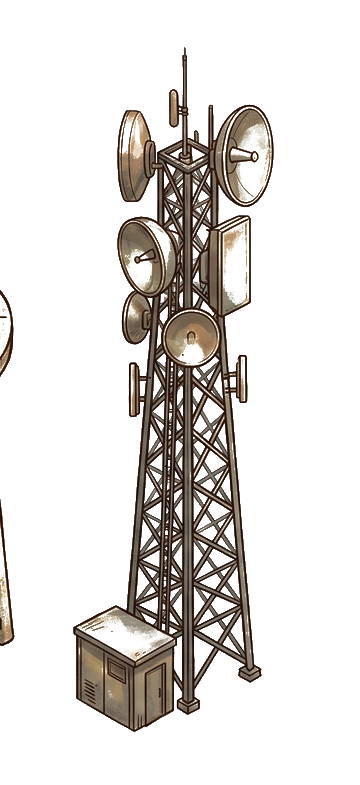
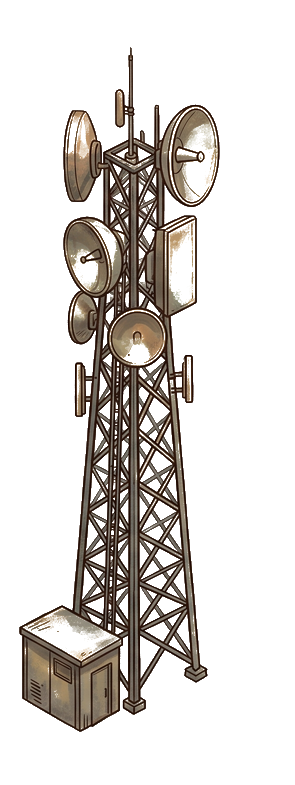
施工実績を実写39枚に＋ホーム/事業名の改行を全幅で枠内に修正
works実写ギャラリー(assets/photos 41枚)/ホーム6事業カードとbusinessの折り返しを全ブレークポイントで枠内に/index字間改善/スクロール慣性0.85/電気通信イラストのトリミング/favicon。バックアップ(*.orig.png)は除外。

Changed region(s): [[0.0, 0.0611, 0.7627, 0.9478], [0.0, 0.3669, 0.061, 0.4892]]

diff --git a/works.html b/works.html
@@ -4,9 +4,9 @@
 <meta charset="UTF-8" />
 <meta name="viewport" content="width=device-width, initial-scale=1.0" />
 <title>施工実績｜内村電機工務店</title>
-<meta name="description" content="出雲市新庁舎、島根県立中央病院、中国電力ネットワーク送電線工事ほか。内村電機工務店が島根で手がけてきた施工実績をご紹介します。" />
-<link rel="stylesheet" href="style.css?v=14" />
-<link rel="stylesheet" href="pages.css?v=14" />
+<meta name="description" content="出雲市新庁舎、島根県立中央病院、浜山体育館、各学校・図書館・福祉施設、送電・配電・通信・水道・空調まで。内村電機工務店が島根で手がけてきた施工実績をご紹介します。" />
+<link rel="stylesheet" href="style.css?v=16" />
+<link rel="stylesheet" href="pages.css?v=17" />
 <link rel="stylesheet" href="scroll.css?v=3" />
 <link rel="icon" href="favicon.svg" type="image/svg+xml" />
 </head>
@@ -49,51 +49,90 @@
         <div class="crumbs"><a href="index.html">HOME</a><span>/</span>施工実績</div>
         <p class="page-hero__label">Our Works</p>
         <h1 class="page-hero__title">島根の、大きな建物の灯は、<br />私たちが点けました<span class="dot">。</span></h1>
-        <p class="page-hero__lead">庁舎、病院、送電網。島根の人なら、きっと見たことのある場所。その灯の裏側に、内村電機の仕事があります。代表的な実績をご紹介します。</p>
+        <p class="page-hero__lead">庁舎、病院、学校、トンネル、送電網。島根の人なら、きっと見たことのある場所。その灯の裏側に、内村電機の仕事があります。代表的な実績をご紹介します。</p>
       </div>
     </section>
 
-    <section class="section reveal" style="background:var(--warm-white)">
+    <section class="section" style="background:var(--warm-white)">
       <div class="wave-top"><svg viewBox="0 0 1440 130" preserveAspectRatio="none"><path d="M0,42 C360,4 560,108 840,112 C1110,116 1260,48 1440,36 L1440,130 L0,130 Z" fill="#F7F3EC"/></svg></div>
       <p class="section__label">Project Archive</p>
       <h2 class="section__title">施工実績<span class="dot">。</span></h2>
-      <div class="work-filter">
-        <span class="is-on">すべて</span><span>公共施設</span><span>医療</span><span>送電・配電</span><span>水道・空調</span>
+
+      <!-- ① 公共施設・建築 -->
+      <div class="work-cat reveal">
+        <div class="work-cat__h"><span class="n">01</span>公共施設・建築（電気設備）</div>
+        <div class="works-grid--page">
+          <div class="work-card"><div class="work-card__media ph" style="background-image:url('assets/photos/p11.jpg')"><span class="tag">公共・電気設備</span></div><div class="work-card__body"><div class="work-card__name">出雲市新庁舎 新築工事</div><div class="work-card__meta">電気設備工事 ／ 国土交通大臣顕彰</div></div></div>
+          <div class="work-card"><div class="work-card__media ph" style="background-image:url('assets/photos/p15.jpg')"><span class="tag">医療・電気設備</span></div><div class="work-card__body"><div class="work-card__name">島根県立中央病院 新築工事</div><div class="work-card__meta">電気設備工事 ／ 医療インフラ</div></div></div>
+          <div class="work-card"><div class="work-card__media ph" style="background-image:url('assets/photos/p31.jpg')"><span class="tag">公共・電気設備</span></div><div class="work-card__body"><div class="work-card__name">県立浜山体育館（カミアリーナ）新築工事</div><div class="work-card__meta">電気設備工事</div></div></div>
+          <div class="work-card"><div class="work-card__media ph" style="background-image:url('assets/photos/p28.jpg')"><span class="tag">公共・電気設備</span></div><div class="work-card__body"><div class="work-card__name">浜田市立中央図書館 新築工事</div><div class="work-card__meta">電気設備工事</div></div></div>
+          <div class="work-card"><div class="work-card__media ph" style="background-image:url('assets/photos/p10.jpg')"><span class="tag">教育・電気設備</span></div><div class="work-card__body"><div class="work-card__name">出雲工業高校（管理特別教室棟）新築工事</div><div class="work-card__meta">電気設備工事</div></div></div>
+          <div class="work-card"><div class="work-card__media ph" style="background-image:url('assets/photos/p12.jpg')"><span class="tag">教育・電気設備</span></div><div class="work-card__body"><div class="work-card__name">出雲高校（管理特別教室棟）新築工事</div><div class="work-card__meta">電気設備工事</div></div></div>
+          <div class="work-card"><div class="work-card__media ph" style="background-image:url('assets/photos/p32.jpg')"><span class="tag">教育・電気設備</span></div><div class="work-card__body"><div class="work-card__name">西野小学校 屋内運動場改築工事</div><div class="work-card__meta">電気設備工事</div></div></div>
+          <div class="work-card"><div class="work-card__media ph" style="background-image:url('assets/photos/p14.png')"><span class="tag">公共・電気設備</span></div><div class="work-card__body"><div class="work-card__name">山陰浜田港 公設市場整備工事</div><div class="work-card__meta">電気設備工事</div></div></div>
+          <div class="work-card"><div class="work-card__media ph" style="background-image:url('assets/photos/p29.jpg')"><span class="tag">福祉・電気設備</span></div><div class="work-card__body"><div class="work-card__name">特別養護老人ホーム偕生園 改築電気設備工事</div><div class="work-card__meta">電気設備工事</div></div></div>
+          <div class="work-card"><div class="work-card__media ph" style="background-image:url('assets/photos/p30.jpg')"><span class="tag">福祉・電気設備</span></div><div class="work-card__body"><div class="work-card__name">特別養護老人ホーム天神 新築工事</div><div class="work-card__meta">電気設備工事</div></div></div>
+        </div>
       </div>
-      <div class="works-grid--page">
 
-        <a class="work-card">
-          <div class="work-card__media m-pub"><span class="yr">2018</span><span class="tag">公共・電気設備</span></div>
-          <div class="work-card__body"><div class="work-card__name">出雲市新庁舎</div><div class="work-card__meta">電気設備工事 ／ 国土交通大臣顕彰</div></div>
-        </a>
-
-        <a class="work-card">
-          <div class="work-card__media m-med"><span class="yr">継続中</span><span class="tag">医療・電気空調</span></div>
-          <div class="work-card__body"><div class="work-card__name">島根県立中央病院 ほか</div><div class="work-card__meta">電気・空調設備 ／ 医療インフラ</div></div>
-        </a>
-
-        <a class="work-card">
-          <div class="work-card__media m-pow"><span class="yr">毎年</span><span class="tag">送電・配電</span></div>
-          <div class="work-card__body"><div class="work-card__name">中国電力ネットワーク 送電線工事</div><div class="work-card__meta">送電・配電設備 ／ 感謝状受領</div></div>
-        </a>
-
-        <a class="work-card">
-          <div class="work-card__media m-pub"><span class="yr">公共</span><span class="tag">公共・電気設備</span></div>
-          <div class="work-card__body"><div class="work-card__name">島根県内 公立学校・庁舎</div><div class="work-card__meta">電気・通信設備 ／ 複数年実績</div></div>
-        </a>
-
-        <a class="work-card">
-          <div class="work-card__media m-pow"><span class="yr">災害対応</span><span class="tag">送電・配電</span></div>
-          <div class="work-card__body"><div class="work-card__name">台風・豪雪 停電復旧工事</div><div class="work-card__meta">配電線復旧 ／ 緊急対応</div></div>
-        </a>
-
-        <a class="work-card">
-          <div class="work-card__media m-med"><span class="yr">公共</span><span class="tag">水道・空調</span></div>
-          <div class="work-card__body"><div class="work-card__name">島根県内 浄水場・上下水道施設</div><div class="work-card__meta">ポンプ制御・電気設備 ／ ライフライン</div></div>
-        </a>
-
+      <!-- ② 電気通信 -->
+      <div class="work-cat reveal">
+        <div class="work-cat__h"><span class="n">02</span>電気通信工事</div>
+        <div class="works-grid--page">
+          <div class="work-card"><div class="work-card__media ph" style="background-image:url('assets/photos/p16.jpg')"><span class="tag">電気通信</span></div><div class="work-card__body"><div class="work-card__name">島根県立中央病院 病棟情報管理システム更新工事</div><div class="work-card__meta">電気通信工事 ／ 3階救急病棟センター</div></div></div>
+          <div class="work-card"><div class="work-card__media ph" style="background-image:url('assets/photos/p22.jpg')"><span class="tag">電気通信</span></div><div class="work-card__body"><div class="work-card__name">松江連絡線 OPGW張替工事</div><div class="work-card__meta">電気通信工事</div></div></div>
+          <div class="work-card"><div class="work-card__media ph" style="background-image:url('assets/photos/p41.jpg')"><span class="tag">電気通信</span></div><div class="work-card__body"><div class="work-card__name">龍宮トンネル 警報表示板</div><div class="work-card__meta">電気通信工事</div></div></div>
+          <div class="work-card"><div class="work-card__media ph" style="background-image:url('assets/photos/p04.jpg')"><span class="tag">電気通信</span></div><div class="work-card__body"><div class="work-card__name">仁摩邑南線外 道路情報板</div><div class="work-card__meta">電気通信工事</div></div></div>
+          <div class="work-card"><div class="work-card__media ph" style="background-image:url('assets/photos/p03.jpg')"><span class="tag">電気通信</span></div><div class="work-card__body"><div class="work-card__name">三瓶ダム 気象観測装置</div><div class="work-card__meta">電気通信工事</div></div></div>
+          <div class="work-card"><div class="work-card__media ph" style="background-image:url('assets/photos/p20.jpg')"><span class="tag">電気通信</span></div><div class="work-card__body"><div class="work-card__name">松江市乃木福富 交通情報板工事</div><div class="work-card__meta">電気通信工事</div></div></div>
+          <div class="work-card"><div class="work-card__media ph" style="background-image:url('assets/photos/p02.jpg')"><span class="tag">電気通信</span></div><div class="work-card__body"><div class="work-card__name">CCTV設備工事</div><div class="work-card__meta">電気通信工事</div></div></div>
+          <div class="work-card"><div class="work-card__media ph" style="background-image:url('assets/photos/p27.jpg')"><span class="tag">電気通信</span></div><div class="work-card__body"><div class="work-card__name">浜田川総合開発事業</div><div class="work-card__meta">電気通信工事</div></div></div>
+        </div>
       </div>
-      <p class="body-copy" style="margin-top:36px">※ 掲載はごく一部です。守秘義務によりお見せできない現場も含め、島根全域で年間多数の工事を手がけています。詳しい実績はお気軽にお問い合わせください。</p>
+
+      <!-- ③ 照明・道路・防災 -->
+      <div class="work-cat reveal">
+        <div class="work-cat__h"><span class="n">03</span>照明・道路・防災</div>
+        <div class="works-grid--page">
+          <div class="work-card"><div class="work-card__media ph" style="background-image:url('assets/photos/p17.jpg')"><span class="tag">照明設備</span></div><div class="work-card__body"><div class="work-card__name">真田グラウンド 照明設備工事</div><div class="work-card__meta">照明設備工事 ／ 平成29年度</div></div></div>
+          <div class="work-card"><div class="work-card__media ph" style="background-image:url('assets/photos/p39.jpg')"><span class="tag">照明設備</span></div><div class="work-card__body"><div class="work-card__name">頓原町民野球場 照明灯改修工事</div><div class="work-card__meta">照明設備工事</div></div></div>
+          <div class="work-card"><div class="work-card__media ph" style="background-image:url('assets/photos/p40.jpg')"><span class="tag">照明設備</span></div><div class="work-card__body"><div class="work-card__name">龍宮トンネル 照明工事</div><div class="work-card__meta">照明設備工事</div></div></div>
+          <div class="work-card"><div class="work-card__media ph" style="background-image:url('assets/photos/p26.jpg')"><span class="tag">電気設備</span></div><div class="work-card__body"><div class="work-card__name">浜山公園野球場 スコアボード表示システム改修工事</div><div class="work-card__meta">電気設備工事</div></div></div>
+          <div class="work-card"><div class="work-card__media ph" style="background-image:url('assets/photos/p13.jpg')"><span class="tag">防災・道路</span></div><div class="work-card__body"><div class="work-card__name">国道191号（伏谷トンネル）防災安全交付金工事</div><div class="work-card__meta">付属物修繕工事</div></div></div>
+          <div class="work-card"><div class="work-card__media ph" style="background-image:url('assets/photos/p25.jpg')"><span class="tag">電気設備</span></div><div class="work-card__body"><div class="work-card__name">津和野町 電気自動車急速充電器設置工事</div><div class="work-card__meta">電気設備工事</div></div></div>
+        </div>
+      </div>
+
+      <!-- ④ 送電・配電 -->
+      <div class="work-cat reveal">
+        <div class="work-cat__h"><span class="n">04</span>送電線・配電線</div>
+        <div class="works-grid--page">
+          <div class="work-card"><div class="work-card__media ph" style="background-image:url('assets/photos/p21.jpg')"><span class="tag">送電線</span></div><div class="work-card__body"><div class="work-card__name">松江直江線 鉄塔建替工事</div><div class="work-card__meta">送電線工事</div></div></div>
+          <div class="work-card"><div class="work-card__media ph" style="background-image:url('assets/photos/p18.jpg')"><span class="tag">送電線</span></div><div class="work-card__body"><div class="work-card__name">日原線 鉄塔建替工事</div><div class="work-card__meta">送電線工事</div></div></div>
+          <div class="work-card"><div class="work-card__media ph" style="background-image:url('assets/photos/p33.jpg')"><span class="tag">配電線</span></div><div class="work-card__body"><div class="work-card__name">配電線工事 ①</div><div class="work-card__meta">配電線工事</div></div></div>
+          <div class="work-card"><div class="work-card__media ph" style="background-image:url('assets/photos/p34.jpg')"><span class="tag">配電線</span></div><div class="work-card__body"><div class="work-card__name">配電線工事 ②</div><div class="work-card__meta">配電線工事</div></div></div>
+          <div class="work-card"><div class="work-card__media ph" style="background-image:url('assets/photos/p35.jpg')"><span class="tag">配電線</span></div><div class="work-card__body"><div class="work-card__name">配電線工事 ③</div><div class="work-card__meta">配電線工事</div></div></div>
+          <div class="work-card"><div class="work-card__media ph" style="background-image:url('assets/photos/p36.jpg')"><span class="tag">配電線</span></div><div class="work-card__body"><div class="work-card__name">配電線工事 ④</div><div class="work-card__meta">配電線工事</div></div></div>
+          <div class="work-card"><div class="work-card__media ph" style="background-image:url('assets/photos/p37.jpg')"><span class="tag">配電線</span></div><div class="work-card__body"><div class="work-card__name">配電線工事 ⑤</div><div class="work-card__meta">配電線工事</div></div></div>
+          <div class="work-card"><div class="work-card__media ph" style="background-image:url('assets/photos/p38.jpg')"><span class="tag">配電線</span></div><div class="work-card__body"><div class="work-card__name">配電線工事 ⑥</div><div class="work-card__meta">配電線工事</div></div></div>
+        </div>
+      </div>
+
+      <!-- ⑤ 水道・空調 -->
+      <div class="work-cat reveal">
+        <div class="work-cat__h"><span class="n">05</span>水道施設・給排水空調</div>
+        <div class="works-grid--page">
+          <div class="work-card"><div class="work-card__media ph" style="background-image:url('assets/photos/p24.jpg')"><span class="tag">水道施設</span></div><div class="work-card__body"><div class="work-card__name">水道施設工事 ①</div><div class="work-card__meta">水道施設工事</div></div></div>
+          <div class="work-card"><div class="work-card__media ph" style="background-image:url('assets/photos/p23.jpg')"><span class="tag">水道施設</span></div><div class="work-card__body"><div class="work-card__name">水道施設工事 ②</div><div class="work-card__meta">水道施設工事</div></div></div>
+          <div class="work-card"><div class="work-card__media ph" style="background-image:url('assets/photos/p05.jpg')"><span class="tag">水道・電気</span></div><div class="work-card__body"><div class="work-card__name">今津浄水場 自家発電設備取替工事</div><div class="work-card__meta">電気設備工事</div></div></div>
+          <div class="work-card"><div class="work-card__media ph" style="background-image:url('assets/photos/p09.png')"><span class="tag">空調設備</span></div><div class="work-card__body"><div class="work-card__name">出雲医療看護専門学校 空調設備工事 ①</div><div class="work-card__meta">給排水・空調設備工事</div></div></div>
+          <div class="work-card"><div class="work-card__media ph" style="background-image:url('assets/photos/p06.png')"><span class="tag">空調設備</span></div><div class="work-card__body"><div class="work-card__name">出雲医療看護専門学校 空調設備工事 ②</div><div class="work-card__meta">給排水・空調設備工事</div></div></div>
+          <div class="work-card"><div class="work-card__media ph" style="background-image:url('assets/photos/p07.png')"><span class="tag">空調設備</span></div><div class="work-card__body"><div class="work-card__name">出雲医療看護専門学校 空調設備工事 ③</div><div class="work-card__meta">給排水・空調設備工事</div></div></div>
+          <div class="work-card"><div class="work-card__media ph" style="background-image:url('assets/photos/p08.png')"><span class="tag">空調設備</span></div><div class="work-card__body"><div class="work-card__name">出雲医療看護専門学校 空調設備工事 ④</div><div class="work-card__meta">給排水・空調設備工事</div></div></div>
+        </div>
+      </div>
+
+      <p class="body-copy" style="margin-top:48px">※ 掲載は実績の一部です。島根全域で、年間多数の工事を手がけています。詳しい実績はお気軽にお問い合わせください。</p>
     </section>
 
     <section class="cta-foot reveal">

diff --git a/style.css b/style.css
@@ -31,6 +31,7 @@ body {
   font-family: "Noto Sans JP", system-ui, sans-serif;
   font-weight: 400;
   font-feature-settings: "palt" 1;
+  letter-spacing: 0.03em;
   font-size: 17px;
   line-height: 1.85;
   -webkit-font-smoothing: antialiased;
@@ -92,7 +93,7 @@ a { color: inherit; text-decoration: none; }
 .section__label::before { content: ""; width: 28px; height: 2px; background: var(--red); }
 .section__title {
   font-weight: 900; font-size: clamp(28px, 4.2vw, 52px); line-height: 1.3;
-  letter-spacing: -0.01em; color: var(--ink); margin-bottom: 24px;
+  letter-spacing: -0.03em; color: var(--ink); margin-bottom: 24px;
 }
 
 /* ============ S1 ファーストビュー：アイソメ島根の街 ============ */
@@ -105,7 +106,7 @@ a { color: inherit; text-decoration: none; }
 .fv__copy { position: relative; z-index: 3; padding: 0 clamp(24px, 6vw, 96px); max-width: 760px; }
 .fv__title {
   font-weight: 900; font-size: clamp(40px, 6.6vw, 92px); line-height: 1.18;
-  letter-spacing: -0.01em; color: var(--ink); margin-bottom: 28px;
+  letter-spacing: -0.03em; color: var(--ink); margin-bottom: 28px;
   text-shadow: 0 2px 30px rgba(247,243,236,0.8);
 }
 .fv__lead { font-size: clamp(15px, 1.5vw, 18px); color: var(--ink-mute); line-height: 2; max-width: 28em; margin-bottom: 40px; }
@@ -130,16 +131,16 @@ a { color: inherit; text-decoration: none; }
 }
 .biz-card:hover { transform: translateY(-4px); box-shadow: 0 16px 40px rgba(42,39,36,0.08); border-color: var(--red); }
 .biz-card { overflow: hidden; }
-.biz-card__img { position: absolute; right: -6px; bottom: -8px; width: 46%; max-width: 138px; opacity: 0.94; pointer-events: none; transition: transform .45s var(--ease); filter: drop-shadow(0 8px 14px rgba(42,39,36,0.12)); }
+.biz-card__img { position: absolute; right: -6px; bottom: -8px; width: 38%; max-width: 116px; opacity: 0.94; pointer-events: none; transition: transform .45s var(--ease); filter: drop-shadow(0 8px 14px rgba(42,39,36,0.12)); }
 .biz-card:hover .biz-card__img { transform: scale(1.07) translateY(-3px); }
 .biz-card__no, .biz-card__name, .biz-card__desc { position: relative; z-index: 3; }
-.biz-card:not(.is-hero) .biz-card__name { max-width: 56%; }
+.biz-card:not(.is-hero) .biz-card__name { max-width: 68%; }
 .biz-card.is-hero { grid-column: span 2; grid-row: span 2; min-height: 418px; background: linear-gradient(160deg, #FBF8F2, #F2E9DA); }
 .biz-card__img--hero { width: 38%; max-width: 280px; right: 18px; bottom: 14px; opacity: 1; }
 .biz-card__worker { position: absolute; right: 30%; bottom: 14px; width: 15%; max-width: 104px; pointer-events: none; z-index: 2; filter: drop-shadow(0 6px 10px rgba(42,39,36,0.18)); }
 .biz-card.is-hero .biz-card__desc { max-width: 52%; }
 .biz-card__no { font-family: "Roboto Mono", monospace; font-size: 13px; color: var(--red); margin-bottom: 12px; }
-.biz-card__name { font-weight: 900; font-size: clamp(20px, 2vw, 28px); color: var(--ink); }
+.biz-card__name { font-weight: 900; font-size: clamp(17px, 1.7vw, 24px); color: var(--ink); line-height: 1.4; word-break: keep-all; line-break: strict; }
 .biz-card.is-hero .biz-card__name { font-size: clamp(28px, 3.4vw, 44px); }
 .biz-card__desc { font-size: 14px; color: var(--ink-mute); margin-top: 10px; }
 

diff --git a/pages.css b/pages.css
@@ -80,7 +80,7 @@
 .biz-row__media.is-dark { background: linear-gradient(155deg, #222A38, #161C28); }
 .biz-row__media img { width: 56%; filter: drop-shadow(0 14px 24px rgba(42,39,36,0.18)); }
 .biz-row__no { font-family: "Roboto Mono", monospace; font-size: 14px; color: var(--red); margin-bottom: 14px; }
-.biz-row__name { font-weight: 900; font-size: clamp(24px, 3vw, 38px); color: var(--ink); line-height: 1.3; margin-bottom: 8px; }
+.biz-row__name { font-weight: 900; font-size: clamp(21px, 2.4vw, 34px); color: var(--ink); line-height: 1.35; margin-bottom: 8px; word-break: keep-all; line-break: strict; overflow-wrap: normal; }
 .biz-row__en { font-family: "Outfit", sans-serif; font-size: 12px; letter-spacing: 0.2em; color: var(--ink-mute); text-transform: uppercase; margin-bottom: 18px; }
 .biz-row__desc { font-size: 15.5px; color: var(--ink-mute); line-height: 2.05; max-width: 30em; }
 .biz-row__tags { display: flex; flex-wrap: wrap; gap: 8px; margin-top: 20px; }
@@ -95,6 +95,14 @@
 .works-grid--page .work-card__media.m-pub { background: linear-gradient(135deg, var(--sky), #b9d4e6); }
 .works-grid--page .work-card__media.m-med { background: linear-gradient(135deg, #8FB89E, #b9d6c4); }
 .works-grid--page .work-card__media.m-pow { background: linear-gradient(135deg, var(--lamp-amber), #f0c178); }
+/* 実写対応（会社写真） */
+.work-card__media.ph { background-size: cover; background-position: center; background-repeat: no-repeat; }
+.work-card__media.ph::after { content:""; position:absolute; inset:0; background:linear-gradient(180deg, rgba(20,16,12,0) 55%, rgba(20,16,12,0.5)); }
+.work-card__media.ph .tag { position:relative; z-index:2; background: rgba(20,16,12,0.62); color:#fff; }
+.work-cat { margin-top:64px; }
+.work-cat:first-of-type { margin-top:40px; }
+.work-cat__h { font-weight:900; font-size:clamp(18px,2vw,24px); color:var(--ink); margin-bottom:6px; display:flex; align-items:baseline; gap:12px; }
+.work-cat__h .n { font-family:"Roboto Mono",monospace; font-size:13px; color:var(--red); }
 .works-grid--page .work-card { transition: transform .4s var(--ease), box-shadow .4s; }
 .works-grid--page .work-card:hover { transform: translateY(-5px); box-shadow: 0 18px 44px rgba(42,39,36,0.1); }
 .work-card__media { position: relative; }

diff --git a/business.html b/business.html
@@ -5,8 +5,8 @@
 <meta name="viewport" content="width=device-width, initial-scale=1.0" />
 <title>事業内容｜内村電機工務店</title>
 <meta name="description" content="送電線・電気・配電線・電気通信・水道施設・給排水空調。島根の暮らしを支える内村電機工務店の6つの事業をご紹介します。" />
-<link rel="stylesheet" href="style.css?v=14" />
-<link rel="stylesheet" href="pages.css?v=14" />
+<link rel="stylesheet" href="style.css?v=16" />
+<link rel="stylesheet" href="pages.css?v=17" />
 <link rel="stylesheet" href="scroll.css?v=3" />
 <link rel="icon" href="favicon.svg" type="image/svg+xml" />
 </head>

diff --git a/about.html b/about.html
@@ -5,7 +5,7 @@
 <meta name="viewport" content="width=device-width, initial-scale=1.0" />
 <title>私たちについて｜内村電機工務店</title>
 <meta name="description" content="内村電機工務店は1934年から島根全域で、電気を通じて明るいまちづくりを支えてきました。九十二年の歴史と、128名の人。私たちの理念・沿革・代表メッセージ・会社概要。" />
-<link rel="stylesheet" href="style.css?v=14" />
+<link rel="stylesheet" href="style.css?v=16" />
 <link rel="stylesheet" href="pages.css?v=14" />
 <link rel="stylesheet" href="scroll.css?v=3" />
 <link rel="icon" href="favicon.svg" type="image/svg+xml" />

diff --git a/contact.html b/contact.html
@@ -5,7 +5,7 @@
 <meta name="viewport" content="width=device-width, initial-scale=1.0" />
 <title>お問い合わせ｜内村電機工務店</title>
 <meta name="description" content="内村電機工務店へのお問い合わせ。工事のご相談・採用のご応募はこちらから。お電話 0853-63-3456、またはフォームよりお気軽にご連絡ください。" />
-<link rel="stylesheet" href="style.css?v=14" />
+<link rel="stylesheet" href="style.css?v=16" />
 <link rel="stylesheet" href="pages.css?v=14" />
 <link rel="stylesheet" href="scroll.css?v=3" />
 <link rel="icon" href="favicon.svg" type="image/svg+xml" />

diff --git a/index.html b/index.html
@@ -5,7 +5,7 @@
 <meta name="viewport" content="width=device-width, initial-scale=1.0" />
 <title>内村電機工務店｜島根の街に、灯をともす。</title>
 <meta name="description" content="内村電機工務店は1934年から島根全域で、電気・送電・配電・通信・水道・空調の工事を通じて暮らしの裏側を支えてきました。電気を通じて、明るいまちづくりを。" />
-<link rel="stylesheet" href="style.css?v=12" />
+<link rel="stylesheet" href="style.css?v=16" />
 <link rel="stylesheet" href="scroll.css?v=3" />
 <link rel="icon" href="favicon.svg" type="image/svg+xml" />
 </head>

diff --git a/network.html b/network.html
@@ -5,7 +5,7 @@
 <meta name="viewport" content="width=device-width, initial-scale=1.0" />
 <title>拠点ネットワーク｜内村電機工務店</title>
 <meta name="description" content="本社（出雲）と島根県内6営業所。県東の安来から県西の益田まで。島根のどこで灯が落ちても駆けつけられる距離に、内村電機工務店はいます。" />
-<link rel="stylesheet" href="style.css?v=14" />
+<link rel="stylesheet" href="style.css?v=16" />
 <link rel="stylesheet" href="pages.css?v=14" />
 <link rel="stylesheet" href="scroll.css?v=3" />
 <link rel="icon" href="favicon.svg" type="image/svg+xml" />

diff --git a/quality.html b/quality.html
@@ -5,7 +5,7 @@
 <meta name="viewport" content="width=device-width, initial-scale=1.0" />
 <title>品質・ISO｜内村電機工務店</title>
 <meta name="description" content="ISO9001認証取得。品質・安全・環境・人材育成。内村電機工務店が灯を絶やさないために、仕組みで守っている約束をご紹介します。" />
-<link rel="stylesheet" href="style.css?v=14" />
+<link rel="stylesheet" href="style.css?v=16" />
 <link rel="stylesheet" href="pages.css?v=14" />
 <link rel="stylesheet" href="scroll.css?v=3" />
 <link rel="icon" href="favicon.svg" type="image/svg+xml" />

diff --git a/recruit.html b/recruit.html
@@ -5,7 +5,7 @@
 <meta name="viewport" content="width=device-width, initial-scale=1.0" />
 <title>採用情報｜内村電機工務店</title>
 <meta name="description" content="島根に、灯をともす人になりませんか。内村電機工務店の採用情報。先輩社員の声、募集職種、働く環境をご紹介します。未経験・新卒・中途歓迎。" />
-<link rel="stylesheet" href="style.css?v=14" />
+<link rel="stylesheet" href="style.css?v=16" />
 <link rel="stylesheet" href="pages.css?v=14" />
 <link rel="stylesheet" href="scroll.css?v=3" />
 <link rel="icon" href="favicon.svg" type="image/svg+xml" />